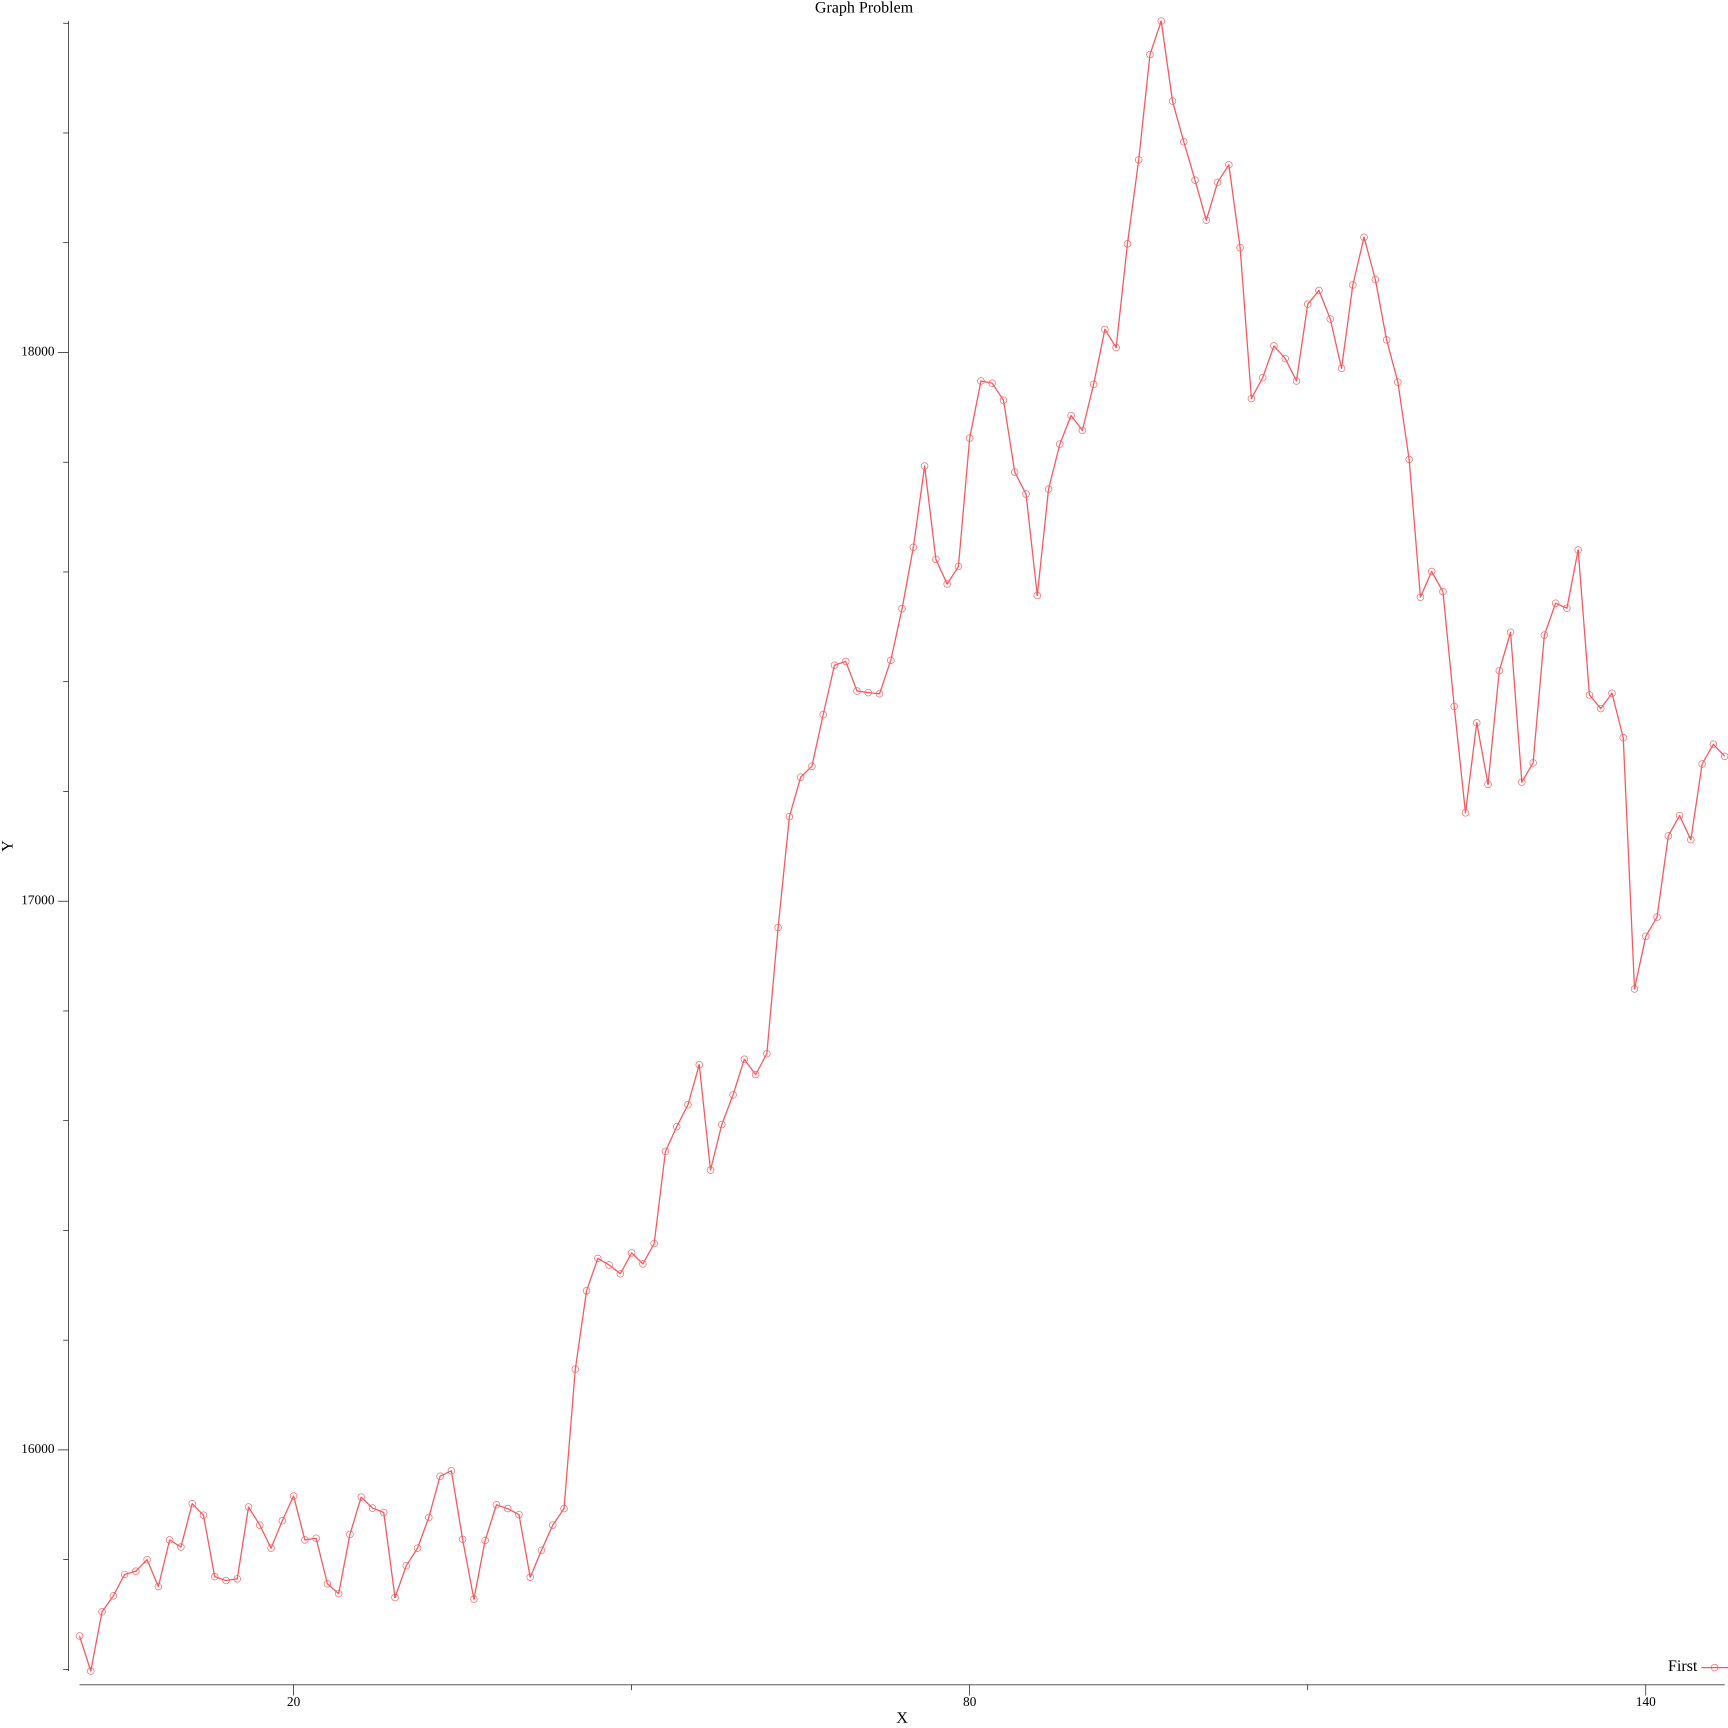
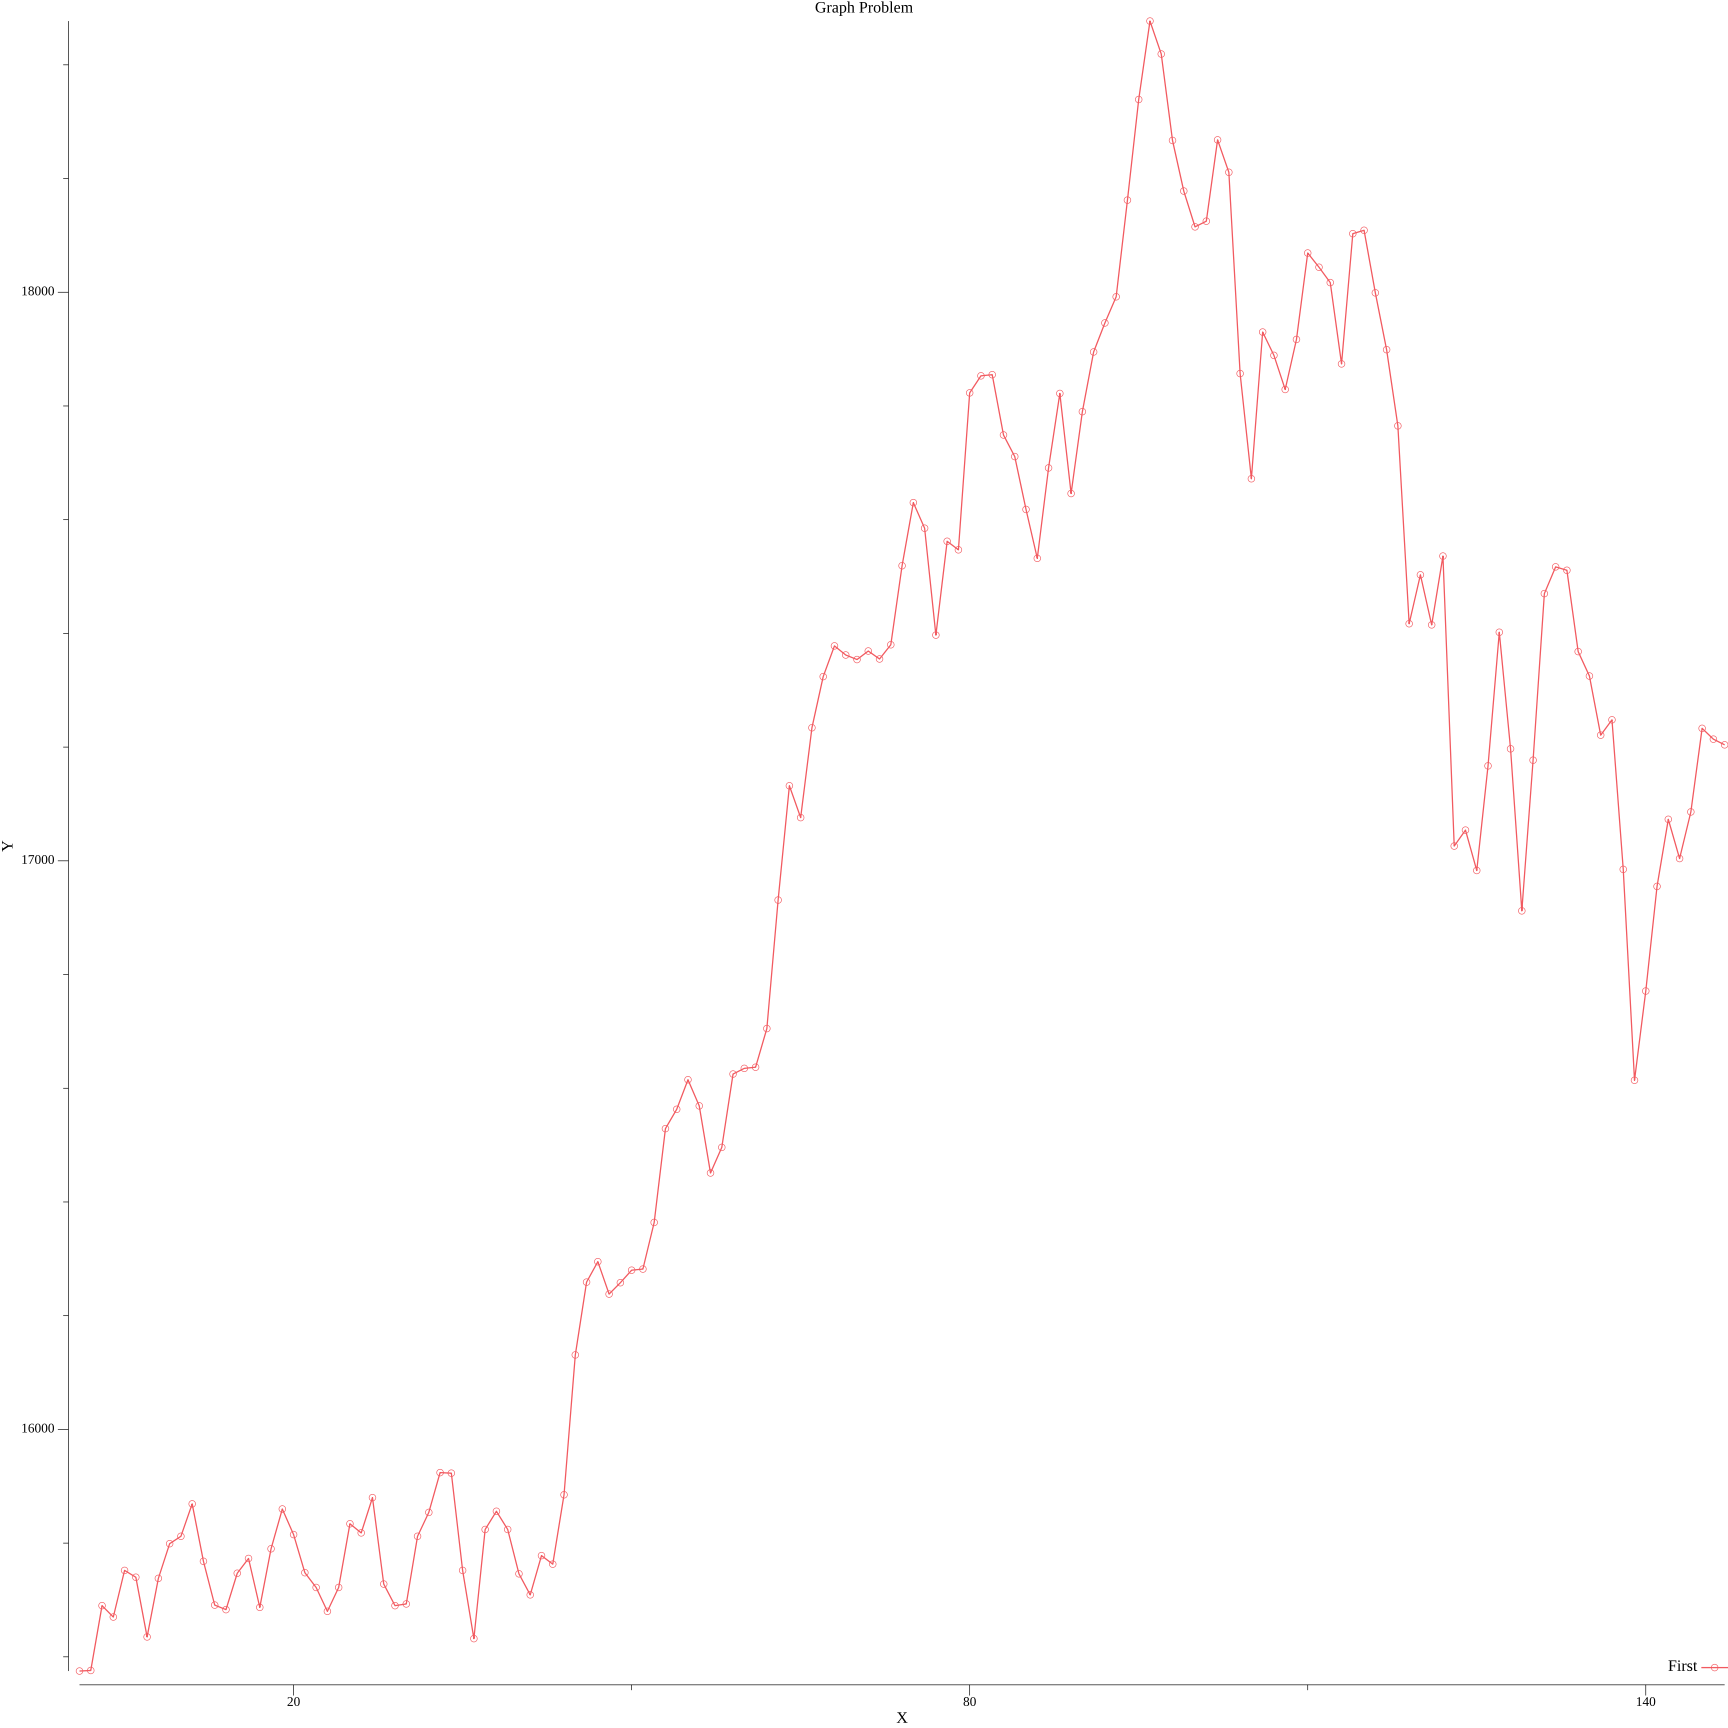
emrging!!

diff --git a/Semicircle/main.go b/Semicircle/main.go
@@ -81,32 +81,70 @@ func (l *Letter_semicircle) PatternU() ([]int, []int, int, bool) {
 				// } else
 				if Is_Valid11(l.Date_struct[All_trends_index_values[i]+1].Value, a1) {
 					start = append(start, All_trends_index_values[i]+1)
-					end = append(end, All_trends_index_values[i+2]+2) //last U
+					end = append(end, All_trends_index_values[i+1]+2) //last U
 					count++
 					bol = true
 				} else if Is_Valid11(l.Date_struct[All_trends_index_values[i]+2].Value, a1) {
 					start = append(start, All_trends_index_values[i]+2)
-					end = append(end, All_trends_index_values[i+2]+4)
+					end = append(end, All_trends_index_values[i+1]+2) //last U
 					count++
 					bol = true
-				} else if Is_Valid11(l.Date_struct[All_trends_index_values[i]].Value, a2) {
-					start = append(start, All_trends_index_values[i])
-					end = append(end, All_trends_index_values[i]+8)
+				} else if Is_Valid11(l.Date_struct[All_trends_index_values[i]+3].Value, a1) {
+					start = append(start, All_trends_index_values[i]+3)
+					end = append(end, All_trends_index_values[i+1]+2) //last U
 					count++
 					bol = true
 				} else if Is_Valid11(l.Date_struct[All_trends_index_values[i+1]].Value, a2) {
 					start = append(start, All_trends_index_values[i])
-					fmt.Println("here!!")
-					end = append(end, All_trends_index_values[i+1]+3) //some connection
+					end = append(end, All_trends_index_values[i+1]+3) //last U
 					count++
 					bol = true
 				} else if Is_Valid11(l.Date_struct[All_trends_index_values[i]+1].Value, a2) {
-					start = append(start, All_trends_index_values[i])
-					fmt.Println("here1!!")
-					end = append(end, All_trends_index_values[i]+8) //some connection
+					start = append(start, All_trends_index_values[i]+1)
+					end = append(end, All_trends_index_values[i+2]+1) //last U
 					count++
 					bol = true
 				}
+				// } else if Is_Valid11(l.Date_struct[All_trends_index_values[i]+2].Value, a1) {
+				// 	start = append(start, All_trends_index_values[i]+2)
+				// 	end = append(end, All_trends_index_values[i+1]+2) //last U
+				// 	count++
+				// 	bol = true
+				// } else if Is_Valid11(l.Date_struct[All_trends_index_values[i]+3].Value, a1) {
+				// 	start = append(start, All_trends_index_values[i]+3)
+				// 	end = append(end, All_trends_index_values[i+1]+2) //last U
+				// 	count++
+				// 	bol = true
+				// }
+				// } else if Is_Valid11(l.Date_struct[All_trends_index_values[i]+2].Value, a1) {
+				// 	start = append(start, All_trends_index_values[i]+2)
+				// 	end = append(end, All_trends_index_values[i+2]+2)
+				// 	count++
+				// 	bol = true
+				// } else if Is_Valid11(l.Date_struct[All_trends_index_values[i]].Value, a2) {
+				// 	start = append(start, All_trends_index_values[i])
+				// 	end = append(end, All_trends_index_values[i]+4)
+				// 	count++
+				// 	bol = true
+				// } else if Is_Valid11(l.Date_struct[All_trends_index_values[i+1]].Value, a2) {
+				// 	start = append(start, All_trends_index_values[i])
+				// 	fmt.Println("here!!")
+				// 	end = append(end, All_trends_index_values[i+1]+2) //some connection
+				// 	count++
+				// 	bol = true
+				// } else if Is_Valid11(l.Date_struct[All_trends_index_values[i]+1].Value, a2) {
+				// 	start = append(start, All_trends_index_values[i])
+				// 	end = append(end, All_trends_index_values[i+1]+7) //last U
+				// 	count++
+				// 	bol = true
+				// }
+				// } else if Is_Valid11(l.Date_struct[All_trends_index_values[i]+1].Value, a2) {
+				// 	start = append(start, All_trends_index_values[i])
+				// 	fmt.Println("here1!!")
+				// 	end = append(end, All_trends_index_values[i]+8) //some connection
+				// 	count++
+				// 	bol = true
+				// }
 			}
 		}
 
@@ -295,14 +333,14 @@ func troughs(pts []pattern_up.Date) (a []int) {
 
 }
 func main() {
-	Date := Generic.Genericcsv("/home/tatva.j@ah.zymrinc.com/Desktop/go-graph/Generic/data2.csv")
+	Date := Generic.Genericcsv("/home/tatva.j@ah.zymrinc.com/Desktop/go-graph/Generic/data1.csv")
 	Plot_Original(Date, "Main_Without_Patterns.png")
 	P := &Letter_semicircle{Date_struct: Date}
 	start, end, count, bol := Find(P)
 	fmt.Println(start, end, count, bol)
 	if bol {
 		Plot_Pattern(Date, count, start, end, "Main_With_Patterns_U.png")
-		fmt.Println(Date[39], Date[48])
+		fmt.Println(Date[28], Date[35])
 	} else {
 		fmt.Println("No Pattern Found")
 	}
